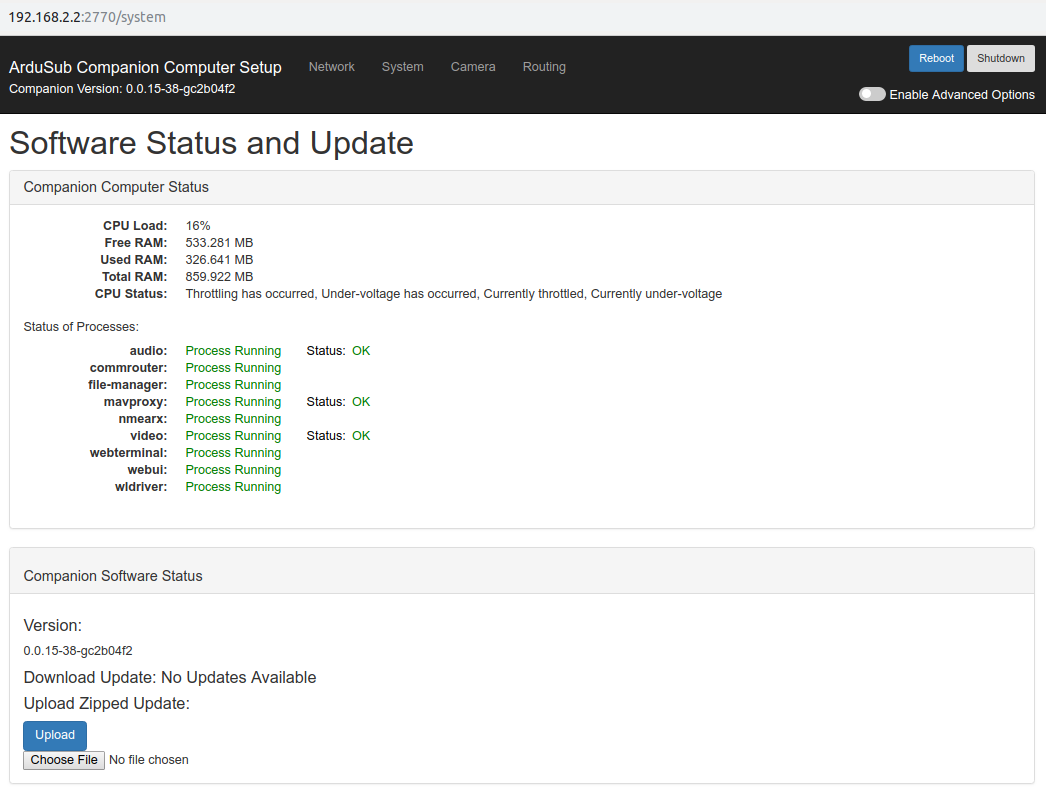
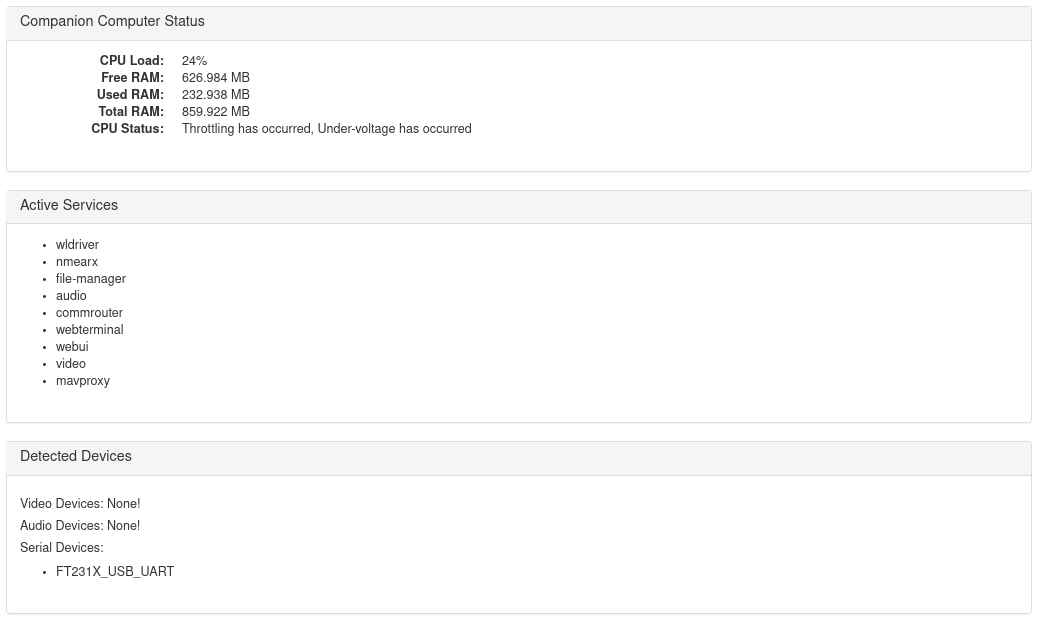
companion-web: update system page information

diff --git a/operators-manual/companion-web.md b/operators-manual/companion-web.md
@@ -27,8 +27,10 @@ The web interface by default opens at the [Network](http://192.168.2.2:2770/netw
 
 The [System](http://192.168.2.2:2770/system) page provides the following functionalities and features:
 
-- Update software on Companion
-- Display Companion computer hardware status parameters and detailed status of processes.
+- Update the Companion software
+- Display system resource information
+- Display the active services
+- Display detected/recognized devices
 
 <img src="/images/system1.png" class="img-responsive img-center" style="max-width:750px" />
 
